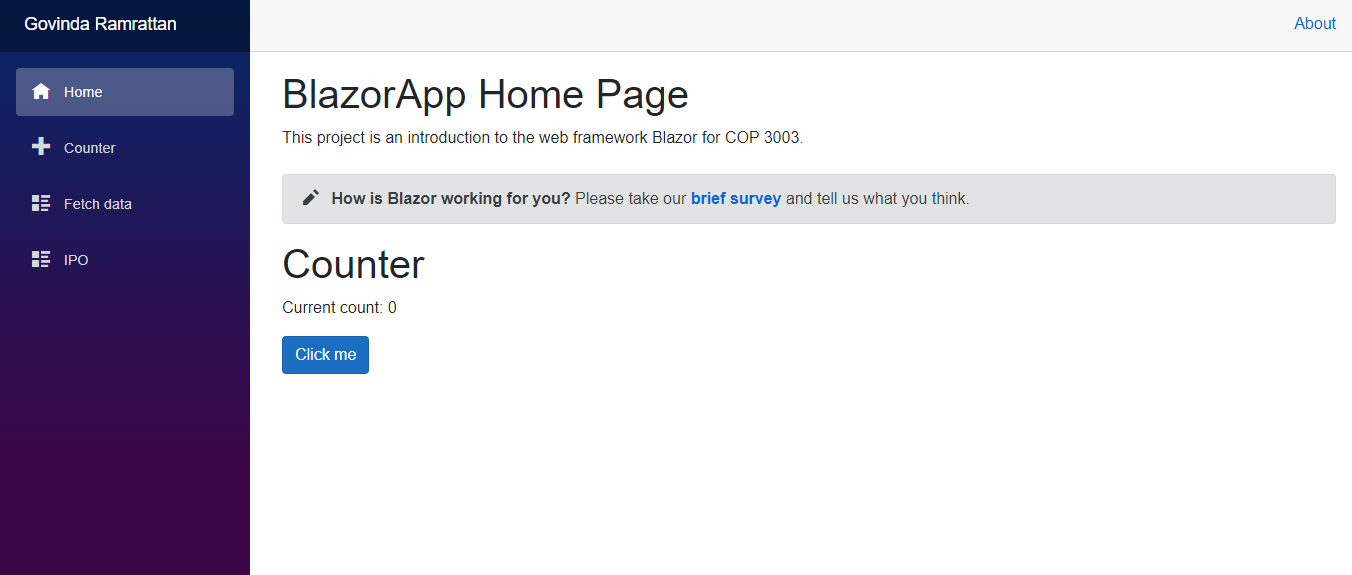
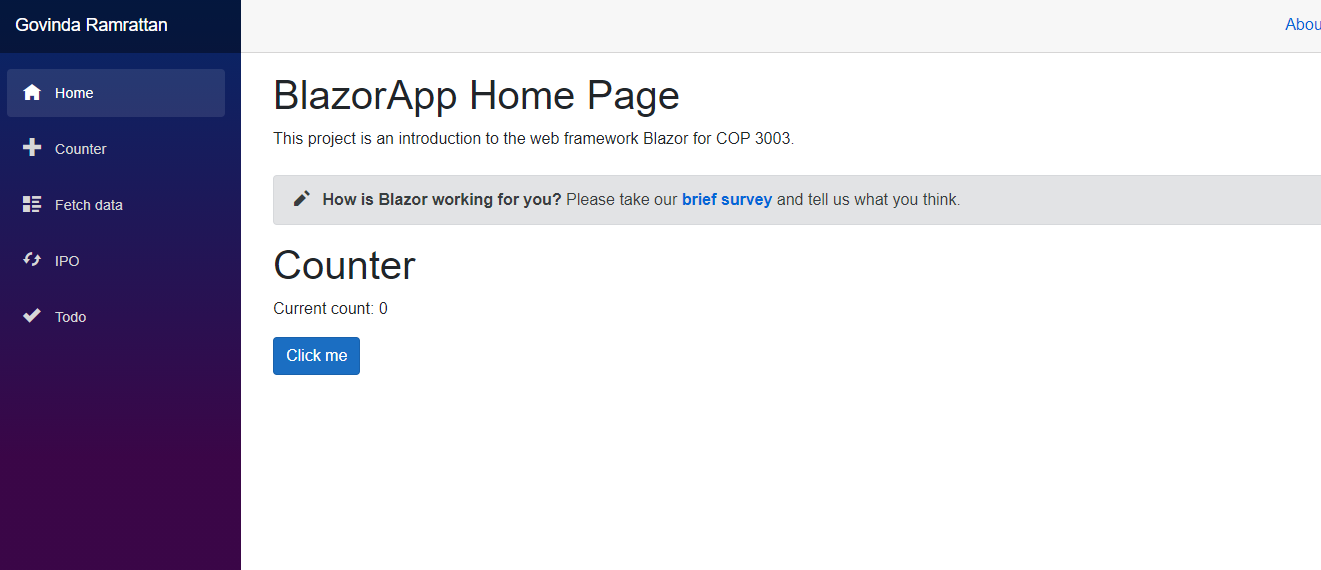
Added Todo

diff --git a/Client/TodoItem.cs b/Client/TodoItem.cs
@@ -1,0 +1,7 @@
+// creates class TodoItem
+public class TodoItem
+{
+    // Has fields Title and IsDone with getters and setters
+    public string Title { get; set; }
+    public bool IsDone { get; set; }
+}

diff --git a/README.md b/README.md
@@ -1,9 +1,14 @@
 # Blazor Starter Application
 
-This project contains an example [Blazor WebAssembly](https://docs.microsoft.com/aspnet/core/blazor/?view=aspnetcore-3.1#blazor-webassembly) client application, a C# [Azure Functions](https://docs.microsoft.com/azure/azure-functions/functions-overview) and a C# class library with shared code. This project was created for COP 3003 (Programming II).
+This project contains an example [Blazor WebAssembly](https://docs.microsoft.com/aspnet/core/blazor/?view=aspnetcore-3.1#blazor-webassembly) client application, a C# [Azure Functions](https://docs.microsoft.com/azure/azure-functions/functions-overview) and a C# class library with shared code. It was modified to include an input, output and processing page (IPO) and a TodoList page. This project was created for COP 3003 (Programming II).
 
 ## Link
 https://witty-wave-0e42c2210.azurestaticapps.net/
+
+## Template Structure
+- **Client**: The Blazor WebAssembly sample application
+- **API**: A C# Azure Functions API, which the Blazor application will call
+- **Shared**: A C# class library with a shared data model between the Blazor and Functions application
 
 ## Demonstration
 ![screenshot](https://github.com/GovindaJR/BlazorApp/blob/main/Screenshot.PNG) 
@@ -17,3 +22,6 @@ Blazor Tutorial: https://www.google.com/url?q=https%3A%2F%2Fdotnet.microsoft.com
 
 Azure Static Web Hosting: https://devblogs.microsoft.com/aspnet/azure-static-web-apps-with-blazor/
 
+IPO code: https://sites.google.com/site/profvanselow/programming/languages/c_1/blazor
+
+To Do list added from: https://docs.microsoft.com/en-us/aspnet/core/tutorials/build-a-blazor-app
